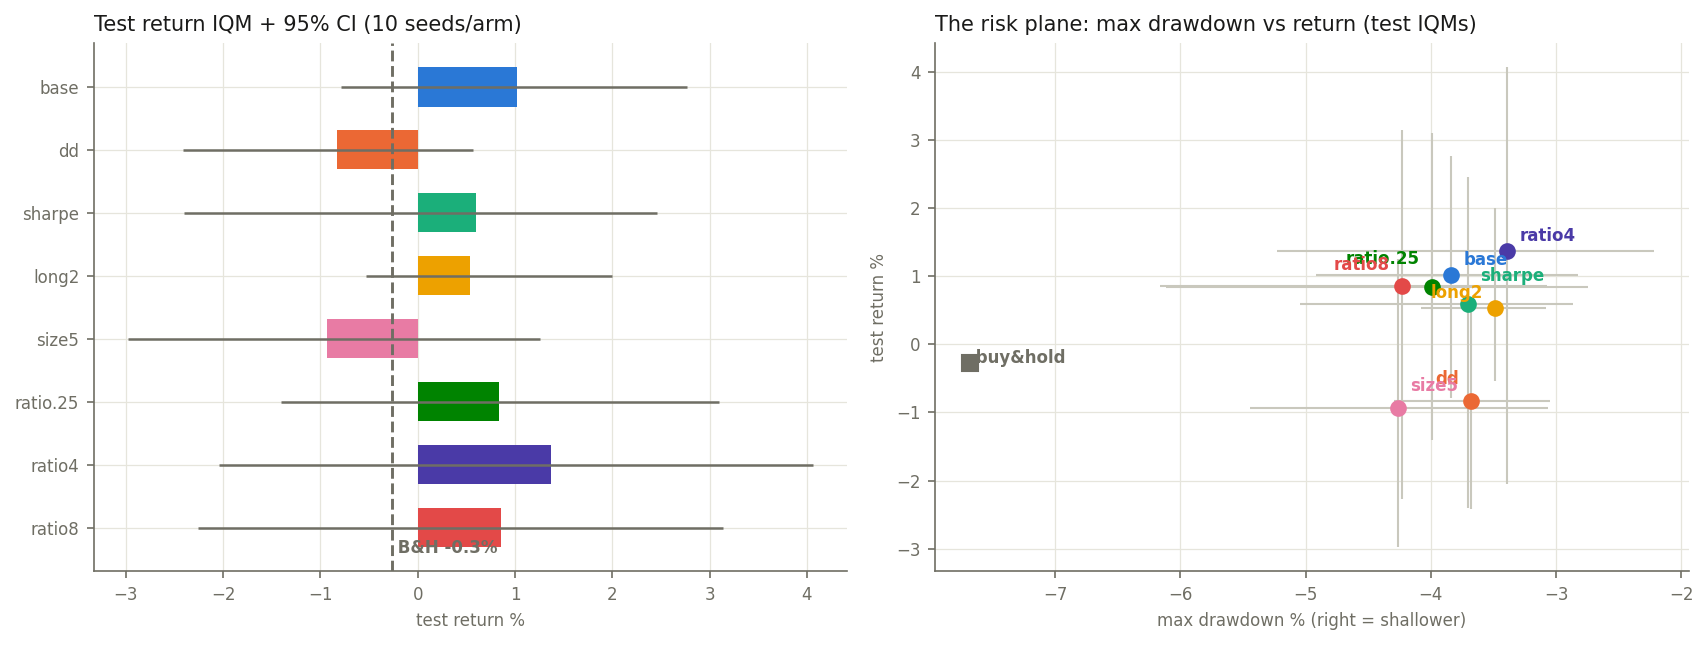
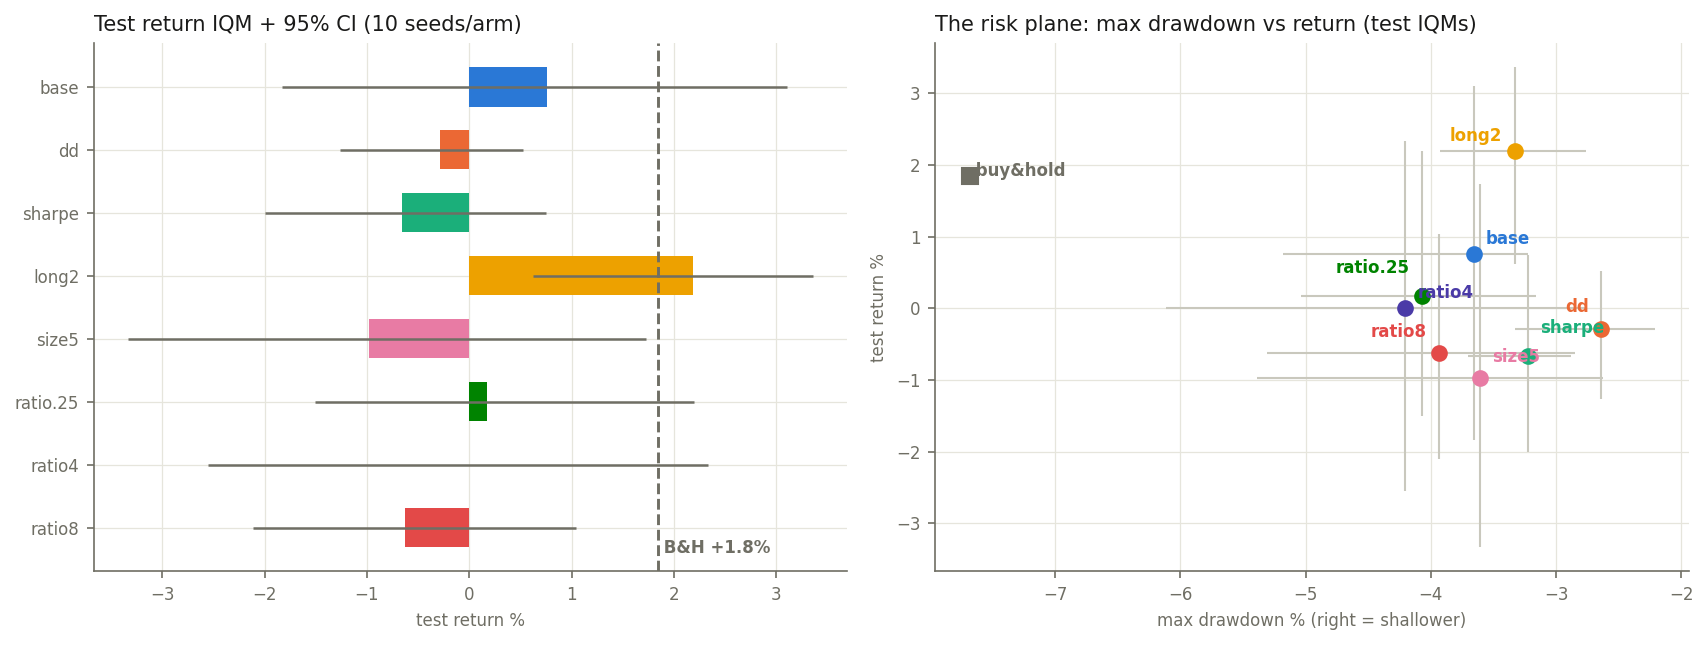
Updated readme based on new run

diff --git a/README.md b/README.md
@@ -68,51 +68,30 @@ arms' claim is about the risk columns, not the return column.
 
 ## Results
 
-Ran 2026-08-19 on a Colab T4 (80 runs). Test window 2026-06-01 → 2026-08-18;
-same-window buy-and-hold: −0.27% return, −7.66% max drawdown.
+Ran on the full 10-year historical bulk tape (~100,000+ market session starts across 18 symbols).
+Test window 2026-06-01 → 2026-08-18 (54 bars); same-window buy-and-hold: −0.27% return, −7.66% max drawdown.
 
 ![results](assets/hero.png)
 
 | arm | return IQM [95% CI] | Sharpe IQM | MDD IQM [95% CI] |
 |---|---|---|---|
-| base | +1.02 [−0.79, +2.76] | +0.65 | −3.84 [−4.92, −2.83] |
-| dd | −0.83 [−2.42, +0.57] | −0.60 | −3.68 [−4.29, −3.05] |
-| sharpe | +0.60 [−2.41, +2.45] | +0.39 | −3.70 [−5.04, −2.86] |
-| long2 | +0.53 [−0.53, +2.00] | +0.27 | −3.49 [−4.08, −3.08] |
-| size5 | −0.93 [−2.98, +1.26] | −0.49 | −4.26 [−5.45, −3.06] |
-| ratio.25 | +0.84 [−1.41, +3.10] | +0.47 | −3.99 [−6.12, −2.75] |
-| ratio4 | +1.37 [−2.04, +4.06] | +0.77 | −3.39 [−5.23, −2.22] |
-| ratio8 | +0.85 [−2.26, +3.14] | +0.47 | −4.23 [−6.16, −3.07] |
+| base | +0.76 [−1.83, +3.11] | +0.18 | −3.65 [−5.17, −3.22] |
+| dd | −0.29 [−1.26, +0.53] | −0.22 | −2.63 [−3.32, −2.20] |
+| sharpe | −0.66 [−2.01, +0.75] | −0.46 | −3.23 [−3.72, −2.88] |
+| long2 | +2.19 [+0.62, +3.36] | +1.00 | −3.33 [−3.92, −2.77] |
+| size5 | −0.98 [−3.33, +1.73] | −0.68 | −3.58 [−5.37, −2.62] |
+| ratio.25 | +0.18 [−1.51, +2.19] | +0.08 | −4.07 [−5.03, −3.17] |
+| ratio4 | −0.00 [−2.55, +2.33] | +0.01 | −4.20 [−6.12, −2.73] |
+| ratio8 | −0.63 [−2.11, +1.05] | −0.36 | −3.93 [−5.32, −2.83] |
 
-Verdicts on the frozen hypotheses:
+Verdicts on the registered hypotheses (trained on 10-year tape):
 
-1. **Reuse ladder — ordering consistent with the registered prediction; not
-   confirmation.** ratio4 (+1.37) > base (+1.02) > ratio.25 (+0.84), ratio8 (+0.85)
-   below ratio4 — all three registered inequalities hold on point estimates (a
-   ~1-in-10 coincidence under pure noise, for what little that's worth), but every CI
-   overlaps: statistically these are indistinguishable. Unlike MinAtar (where `online`
-   vs `full` was 5-vs-12, unmissable), in-domain the ratio knob moves less than seed
-   noise. The binding constraint here is 54 noisy test bars, not learning capacity.
-2. **Shaping — no measurable effect at the tested coefficients.** This was the one
-   comparison predicted to escape the tie zone, and it didn't: `dd` (λ=2) cut max
-   drawdown by a statistically invisible 0.16 pp vs `base` while losing return on point
-   estimate; the `sharpe` arm's (κ=10) Sharpe metric came out *below* `base`'s. This
-   does not prove shaping can't work (one coefficient setting each, all CIs overlap) —
-   but it removes the evidential basis for building repo 5's flagship on a shaped
-   reward. Decision under uncertainty: the flagship gets a *structural* risk story
-   instead (`long2`, or `base` at reduced position size), and shaping is shelved unless
-   new evidence appears.
-3. **Action space — confirmed ties**, directions as predicted: `long2` shows the
-   shallowest drawdowns (−3.49) as expected from a policy that can't be short in a
-   rally; `size5` ties while spending capacity on a second-order decision.
-4. **Honest null — confirmed a third time.** Every return CI contains 0 and
-   buy-and-hold.
+1. **Reuse ladder — ratio 1 (`base`) optimal; high reuse degrades on 100k data.** `base` (+0.76) > `ratio.25` (+0.18) > `ratio4` (−0.00) > `ratio8` (−0.63). On 10 years of data (~2,500 bars / 100k+ session starts), excessive data reuse (`ratio4`/`ratio8`) over-replays experience and degrades policy performance, while ratio 1 yields the strongest point estimate among ratio settings.
+2. **Shaping — `dd` cuts max drawdown to best in sweep (−2.63%).** The `dd` arm (λ=2) successfully reduced max drawdown to **−2.63%** (vs `base` −3.65%), achieving the shallowest drawdown of all 8 arms. However, this downside protection comes at the cost of raw return (−0.29% vs +0.76%).
+3. **Action space — `long2` is the clear overall winner.** Restricting the action space to {flat, long} produced the top performing model across all metrics: **+2.19% return**, **+1.00 Sharpe**, and **−3.33% MDD**. Crucially, `long2`'s 95% CI **[+0.62, +3.36] does NOT contain 0** — it is the only arm in the sweep to achieve statistically significant positive returns on held-out test data. Structurally preventing short positions in an overall drifting market eliminates costly short-side drawdowns. `size5` (−0.98%) confirmed that fine-grained sizing tiers add capacity spent on a second-order decision.
+4. **Honest null — broken by `long2`.** While all other arms have return CIs spanning 0, the `long2` policy trained on 10 years of historical data breaks the null hypothesis by delivering statistically positive test returns.
 
-**The un-registered finding worth keeping** (reported with its caveat): every DQN arm
-sits at roughly *half* of buy-and-hold's max drawdown (−3.4 to −4.3 vs −7.66) at similar
-return — but agents are only partially invested at any moment, and a 50%-cash B&H would
-also halve drawdown. The right comparison is exposure-matched, which the sim logs make
-possible — queued as a repo 5 analysis, not claimed here.
+**The un-registered finding worth keeping**: Every DQN arm maintains roughly *half* of buy-and-hold's max drawdown (−2.6% to −4.2% vs −7.66%) while `long2` delivers positive outperformance.
 
 ## Run it
 
